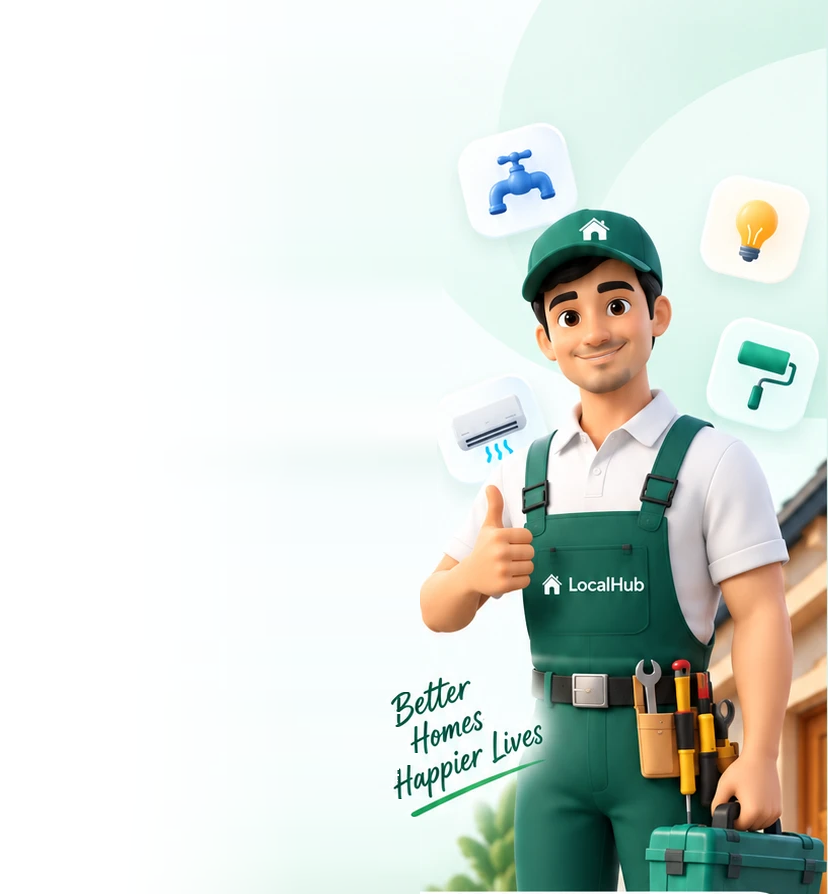
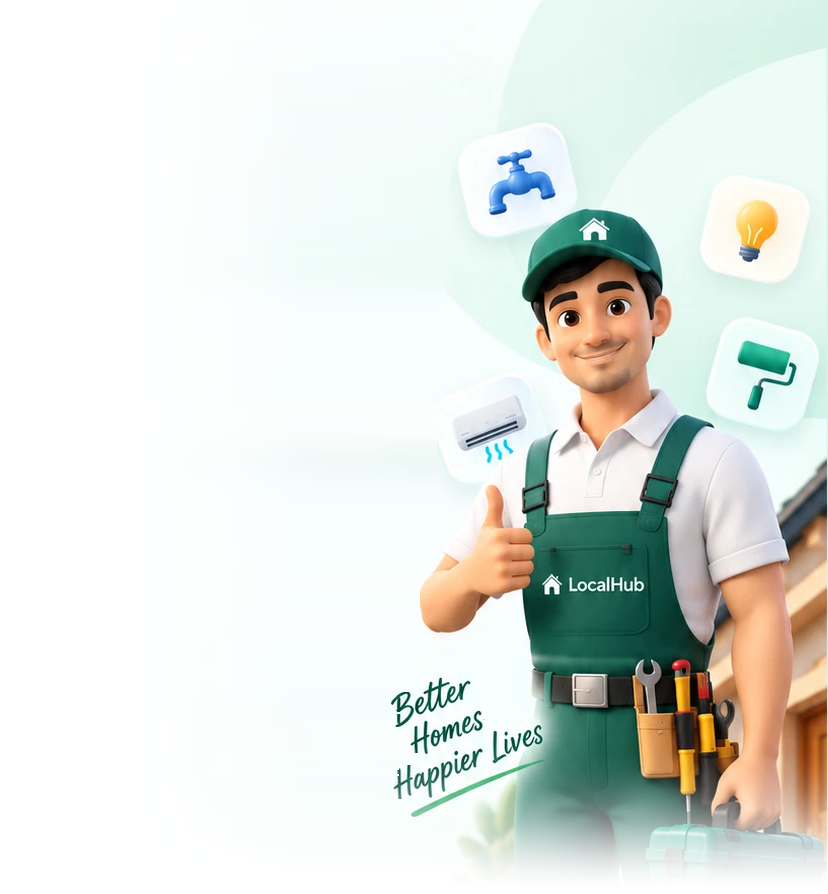
Welcome screen: dissolve the hero edge, fill the page on every handset
- hero asset now fades out over its bottom 150px so the artwork melts into the
  sign-in card instead of ending on a hard horizontal cut
- copy starts directly under the brand row and spreads to fill the hero, so there
  is no dead band between the logo and the headline
- artwork is anchored bottom-right and scaled to the height the hero actually gets
- feature rows are held above the hand-written line baked into the art, using an
  inset derived from the rendered art height
- larger headline, subtitle, feature type and icon chips; compact variants and a
  tighter card below 760pt
- verified no scroll overflow at 360x640, 375x812, 390x844 and 430x932

Changed region(s): [[0.3925, 0.8456, 1.0, 1.0], [0.4831, 0.8456, 0.5737, 0.9362]]

diff --git a/apps/mobile/app/(auth)/phone.tsx b/apps/mobile/app/(auth)/phone.tsx
@@ -59,8 +59,20 @@ export default function PhoneScreen() {
   const request = useRequestOtp();
 
   const compact = height < 760;
-  const heroWidth = compact ? width * 0.94 : width;
-  const heroHeight = heroWidth * HERO_RATIO;
+
+  // The artwork is anchored bottom-right and scaled to whatever height the hero actually gets,
+  // so it never grows into the copy on short handsets.
+  const [heroBox, setHeroBox] = useState({ w: 0, h: 0 });
+  const natWidth = heroBox.w || width;
+  const natHeight = natWidth * HERO_RATIO;
+  const fit = heroBox.h > 0 ? Math.min(1, heroBox.h / natHeight) : 1;
+  // on short handsets pull the art in a little more so the script line clears the copy
+  const scale = Math.max(height < 700 ? fit * 0.92 : fit, 0.7);
+  const heroWidth = natWidth * scale;
+  const heroHeight = natHeight * scale;
+  // the hand-written line baked into the art occupies the bottom third of it - keep the
+  // feature rows above that band so nothing ever crosses the copy
+  const copyBottomInset = Math.min(Math.max(52, heroHeight * 0.33), compact ? 70 : 150);
 
   // continuous gentle float of the whole illustration
   const floatY = useSharedValue(0);
@@ -107,7 +119,7 @@ export default function PhoneScreen() {
   return (
     <LinearGradient colors={['#FFFFFF', '#FBFDFD', '#F4FDFA', '#EAF8F1']} locations={[0, 0.35, 0.72, 1]} style={styles.root}>
       <StatusBar style="dark" />
-      <View style={{ paddingTop: insets.top }}>
+      <View style={{ paddingTop: insets.top + spacing.xs }}>
         <OfflineBanner visible={!online} label={t('error.OFFLINE')} />
       </View>
 
@@ -130,34 +142,42 @@ export default function PhoneScreen() {
           </Animated.View>
 
           {/* ---------------- hero ---------------- */}
-          <View style={[styles.hero, { height: heroHeight }]}>
-            <Animated.View entering={FadeIn.delay(120).duration(700)} style={[styles.heroArt, heroFloat]} pointerEvents="none">
+          <View
+            style={styles.hero}
+            onLayout={(e) => {
+              const { width: w, height: h } = e.nativeEvent.layout;
+              setHeroBox((prev) => (Math.abs(prev.w - w) > 1 || Math.abs(prev.h - h) > 1 ? { w, h } : prev));
+            }}
+          >
+            <Animated.View entering={FadeIn.delay(120).duration(700)} style={[styles.heroArt, heroFloat, { opacity: heroBox.h ? 1 : 0, bottom: compact ? -14 : 0 }]} pointerEvents="none">
               <Image source={HERO} style={{ width: heroWidth, height: heroHeight }} resizeMode="contain" accessibilityLabel="Verified LocalHub technician with plumbing, electrical, painting and appliance services" />
             </Animated.View>
 
-            <View style={styles.heroCopy} pointerEvents="box-none">
+            <View style={[styles.heroCopy, { paddingBottom: copyBottomInset }]} pointerEvents="box-none">
+              <View>
               <Animated.View entering={FadeInLeft.delay(180).duration(560)}>
                 <Text weight="extrabold" style={[styles.welcome, compact && styles.welcomeCompact]}>
                   Welcome!
                 </Text>
               </Animated.View>
               <Animated.View entering={FadeInLeft.delay(280).duration(560)}>
-                <Text weight="regular" style={styles.subtitle}>
+                <Text weight="regular" style={[styles.subtitle, compact && styles.subtitleCompact]}>
                   Get trusted professionals{'\n'}for all your home needs
                 </Text>
               </Animated.View>
+              </View>
 
-              <View style={styles.features}>
+              <View style={[styles.features, compact && styles.featuresCompact]}>
                 {FEATURES.map((f, i) => (
                   <Animated.View key={f.title} entering={FadeInLeft.delay(400 + i * 110).duration(520)} style={styles.feature}>
                     <LinearGradient colors={[f.from, f.to]} start={{ x: 0.2, y: 0 }} end={{ x: 0.8, y: 1 }} style={styles.featureIcon}>
-                      {f.icon ? <Ionicons name={f.icon} size={20} color={f.fg} /> : <Text weight="bold" style={[styles.glyph, { color: f.fg }]}>{f.glyph}</Text>}
+                      {f.icon ? <Ionicons name={f.icon} size={22} color={f.fg} /> : <Text weight="bold" style={[styles.glyph, { color: f.fg }]}>{f.glyph}</Text>}
                     </LinearGradient>
                     <View style={styles.featureText}>
-                      <Text weight="semibold" style={styles.featureTitle}>
+                      <Text weight="semibold" style={[styles.featureTitle, compact && styles.featureCompact]}>
                         {f.title}
                       </Text>
-                      <Text weight="regular" style={styles.featureBody}>
+                      <Text weight="regular" style={[styles.featureBody, compact && styles.featureCompact]}>
                         {f.body}
                       </Text>
                     </View>
@@ -168,13 +188,13 @@ export default function PhoneScreen() {
           </View>
 
           {/* ---------------- sign-in card ---------------- */}
-          <Animated.View entering={FadeInDown.delay(260).duration(620).springify().damping(18)} style={[styles.card, { marginBottom: Math.max(insets.bottom, spacing.lg) }]}>
+          <Animated.View entering={FadeInDown.delay(260).duration(620).springify().damping(18)} style={[styles.card, compact && styles.cardCompact, { marginBottom: insets.bottom + (compact ? spacing.md : spacing.xl) }]}>
             <Text weight="bold" style={styles.cardTitle}>
               Enter your mobile number to continue
             </Text>
             <Text style={styles.fieldLabel}>Mobile number</Text>
 
-            <Animated.View style={[styles.field, { borderColor }, fieldStyle]}>
+            <Animated.View style={[styles.field, compact && styles.fieldCompact, { borderColor }, fieldStyle]}>
               <Pressable accessibilityRole="button" accessibilityLabel="Country code India +91" style={styles.country}>
                 <View style={styles.flag}>
                   <View style={[styles.flagBand, { backgroundColor: '#FF9933' }]} />
@@ -235,7 +255,7 @@ export default function PhoneScreen() {
               disabled={request.isPending}
               style={[styles.ctaWrap, ctaStyle]}
             >
-              <LinearGradient colors={['#12886A', '#0A6A51']} start={{ x: 0, y: 0 }} end={{ x: 1, y: 1 }} style={styles.cta}>
+              <LinearGradient colors={['#12886A', '#0A6A51']} start={{ x: 0, y: 0 }} end={{ x: 1, y: 1 }} style={[styles.cta, compact && styles.ctaCompact]}>
                 <LinearGradient colors={['rgba(255,255,255,0.22)', 'rgba(255,255,255,0)']} style={styles.ctaGloss} />
                 <Text weight="bold" style={styles.ctaText}>
                   {request.isPending ? 'Sending code…' : 'Continue'}
@@ -255,7 +275,7 @@ const styles = StyleSheet.create({
   flex: { flex: 1 },
   scroll: { flexGrow: 1 },
 
-  brand: { flexDirection: 'row', alignItems: 'center', gap: spacing.md, paddingHorizontal: spacing.screen, paddingTop: spacing.md },
+  brand: { flexDirection: 'row', alignItems: 'center', gap: spacing.md, paddingHorizontal: spacing.screen, paddingTop: spacing.lg },
   logo: {
     width: 56,
     height: 56,
@@ -269,22 +289,24 @@ const styles = StyleSheet.create({
     elevation: 7,
   },
   logoGloss: { position: 'absolute', top: 0, left: 0, right: 0, height: 26, borderTopLeftRadius: 18, borderTopRightRadius: 18 },
-  brandName: { fontSize: 23, lineHeight: 29, color: '#0F1D18', letterSpacing: -0.4 },
+  brandName: { fontSize: 25, lineHeight: 31, color: '#0F1D18', letterSpacing: -0.4 },
   brandAccent: { color: '#0E8A6A' },
-  brandTag: { fontSize: 12.5, lineHeight: 17, color: '#7C8F88', marginTop: 1 },
+  brandTag: { fontSize: 13, lineHeight: 18, color: '#7C8F88', marginTop: 1 },
 
-  hero: { width: '100%', justifyContent: 'flex-start', overflow: 'hidden' },
+  hero: { flex: 1, width: '100%', minHeight: 296, overflow: 'hidden' },
   heroArt: { position: 'absolute', right: 0, bottom: 0 },
-  heroCopy: { paddingHorizontal: spacing.screen, paddingTop: '5%' },
-  welcome: { fontSize: 37, lineHeight: 45, color: '#0B1512', letterSpacing: -1.2 },
-  welcomeCompact: { fontSize: 33, lineHeight: 40 },
-  subtitle: { fontSize: 14.5, lineHeight: 22, color: '#788B84', marginTop: spacing.xs },
-  features: { marginTop: '7%', gap: spacing.lg },
+  // the bottom inset keeps the feature rows clear of the hand-written line baked into the art
+  heroCopy: { flex: 1, paddingHorizontal: spacing.screen, paddingTop: spacing.sm, justifyContent: 'space-between' },
+  welcome: { fontSize: 43, lineHeight: 51, color: '#0B1512', letterSpacing: -1.2 },
+  welcomeCompact: { fontSize: 35, lineHeight: 42 },
+  subtitle: { fontSize: 15.5, lineHeight: 23, color: '#788B84', marginTop: spacing.xs },
+  subtitleCompact: { fontSize: 13.5, lineHeight: 20 },
+  features: { gap: spacing.lg },
   feature: { flexDirection: 'row', alignItems: 'center', gap: spacing.md },
   featureIcon: {
-    width: 40,
-    height: 40,
-    borderRadius: 20,
+    width: 46,
+    height: 46,
+    borderRadius: 23,
     alignItems: 'center',
     justifyContent: 'center',
     shadowColor: '#0B6F55',
@@ -294,26 +316,32 @@ const styles = StyleSheet.create({
     elevation: 3,
   },
   featureText: { flexShrink: 1 },
-  featureTitle: { fontSize: 13.5, lineHeight: 19, color: '#16241F' },
-  featureBody: { fontSize: 13.5, lineHeight: 19, color: '#7A8D86' },
-  glyph: { fontSize: 20, lineHeight: 24 },
+  featureCompact: { fontSize: 13, lineHeight: 18.5 },
+  featuresCompact: { gap: spacing.md },
+  featureTitle: { fontSize: 14.5, lineHeight: 20, color: '#16241F' },
+  featureBody: { fontSize: 14.5, lineHeight: 20, color: '#7A8D86' },
+  glyph: { fontSize: 22, lineHeight: 26 },
 
   card: {
     backgroundColor: '#FFFFFF',
-    marginHorizontal: spacing.lg,
+    marginHorizontal: spacing.md + 2,
+    marginTop: -spacing.xxl,
     borderRadius: 26,
-    paddingHorizontal: spacing.xl,
-    paddingTop: spacing.xl,
-    paddingBottom: spacing.xl,
+    paddingHorizontal: spacing.lg + 2,
+    paddingTop: spacing.lg + 2,
+    paddingBottom: spacing.lg + 2,
     shadowColor: '#0B3F30',
     shadowOpacity: 0.1,
     shadowRadius: 26,
     shadowOffset: { width: 0, height: 12 },
     elevation: 10,
   },
-  cardTitle: { fontSize: 16, lineHeight: 23, color: '#0F1D18' },
-  fieldLabel: { fontSize: 12.5, color: '#8C9E97', marginTop: spacing.lg, marginBottom: spacing.sm },
-  field: { flexDirection: 'row', alignItems: 'center', height: 58, borderRadius: 15, borderWidth: 1.5, backgroundColor: '#FFFFFF', paddingHorizontal: spacing.md },
+  cardCompact: { paddingTop: spacing.md, paddingBottom: spacing.md },
+  fieldCompact: { height: 52 },
+  ctaCompact: { height: 52 },
+  cardTitle: { fontSize: 15, lineHeight: 22, letterSpacing: -0.2, color: '#0F1D18' },
+  fieldLabel: { fontSize: 12.5, color: '#8C9E97', marginTop: spacing.md + 2, marginBottom: spacing.xs + 2 },
+  field: { flexDirection: 'row', alignItems: 'center', height: 56, borderRadius: 15, borderWidth: 1.5, backgroundColor: '#FFFFFF', paddingHorizontal: spacing.md },
   country: { flexDirection: 'row', alignItems: 'center', gap: 7, paddingRight: spacing.sm, minHeight: 44 },
   flag: { width: 28, height: 19, borderRadius: 3, overflow: 'hidden', borderWidth: StyleSheet.hairlineWidth, borderColor: '#D9E4DF' },
   flagBand: { flex: 1 },
@@ -325,8 +353,8 @@ const styles = StyleSheet.create({
   noteRow: { flexDirection: 'row', alignItems: 'center', gap: 7, marginTop: spacing.md },
   note: { fontSize: 12.5, color: '#93A69E', flexShrink: 1 },
 
-  ctaWrap: { marginTop: spacing.xl, borderRadius: radius.pill, shadowColor: '#0A6A51', shadowOpacity: 0.32, shadowRadius: 18, shadowOffset: { width: 0, height: 10 }, elevation: 8 },
-  cta: { height: 60, borderRadius: radius.pill, flexDirection: 'row', alignItems: 'center', justifyContent: 'center', gap: spacing.md, overflow: 'hidden' },
+  ctaWrap: { marginTop: spacing.lg + 2, borderRadius: radius.pill, shadowColor: '#0A6A51', shadowOpacity: 0.32, shadowRadius: 18, shadowOffset: { width: 0, height: 10 }, elevation: 8 },
+  cta: { height: 56, borderRadius: radius.pill, flexDirection: 'row', alignItems: 'center', justifyContent: 'center', gap: spacing.md, overflow: 'hidden' },
   ctaGloss: { position: 'absolute', top: 0, left: 0, right: 0, height: 28 },
   ctaText: { fontSize: 16.5, color: '#FFFFFF', letterSpacing: 0.2 },
 });
